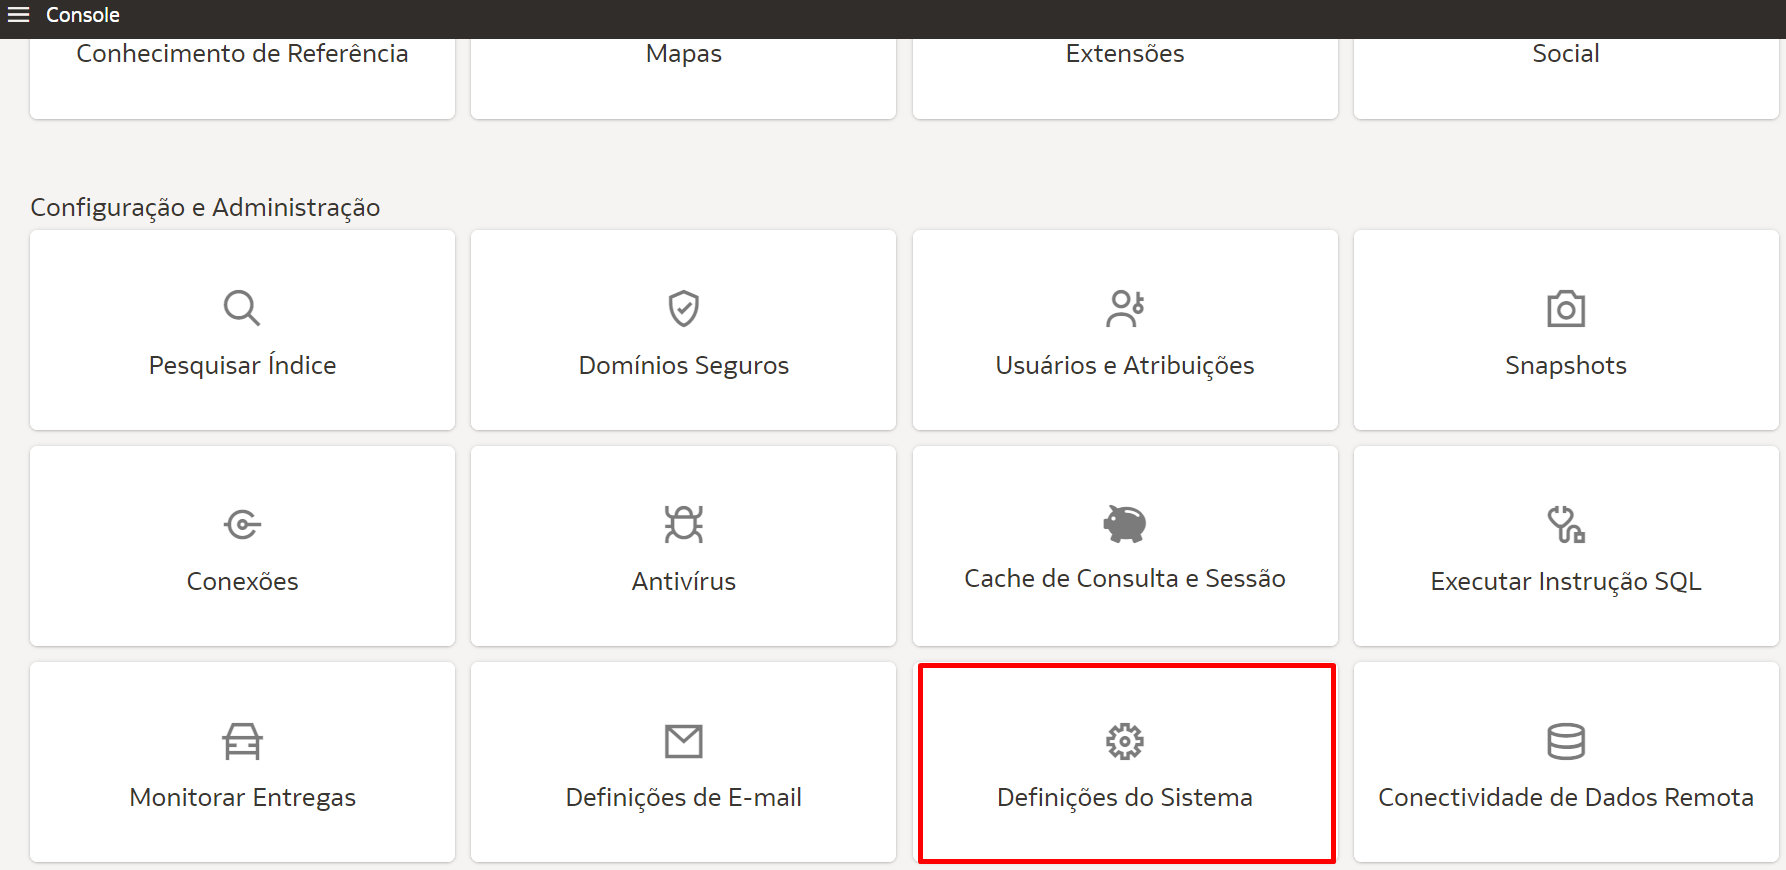
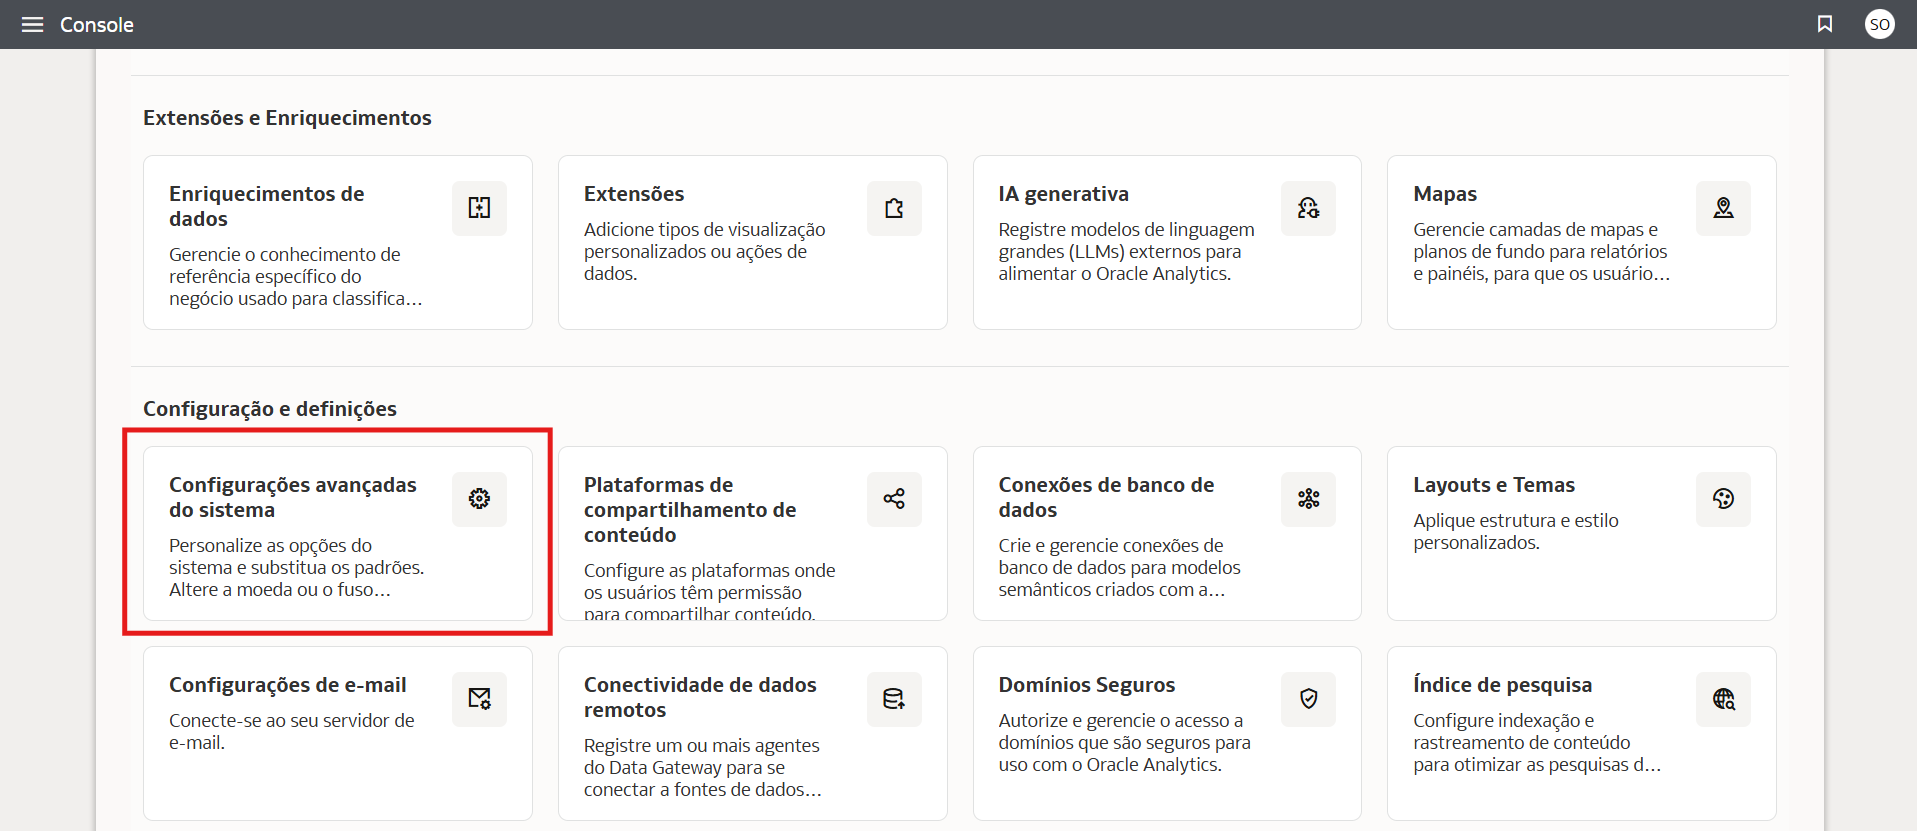
Images and text updated as per the new UI (#218)
* Added New Images

* Made the changes to the UI and wording

* Removed Steps which are out dated

* Updated Images and text to align with new features of OAC

* Images and Text updated as per the new UI changes

WMS ID:3339 and 3385

* Images updated as per new UI Changes

* Updated Images and Text as per the new UI Changes in OAC

* Change the images and text based on the new UI

* Updated UI and text based on new release

---------

diff --git a/analytics/sprint-oac-auto-insights-pt/sprint-oac-auto-insights-pt.md b/analytics/sprint-oac-auto-insights-pt/sprint-oac-auto-insights-pt.md
@@ -14,7 +14,7 @@ As etapas a seguir mostrarão como habilitar o Auto Insights se não estiver apa
 
    ![Console](images/console.png)
 
-2. Clique em **Definições do Sistema**.
+2. Clique em **Configurações avançadas do sistema**.
 
    ![System Settings](images/system-settings.png)
 
